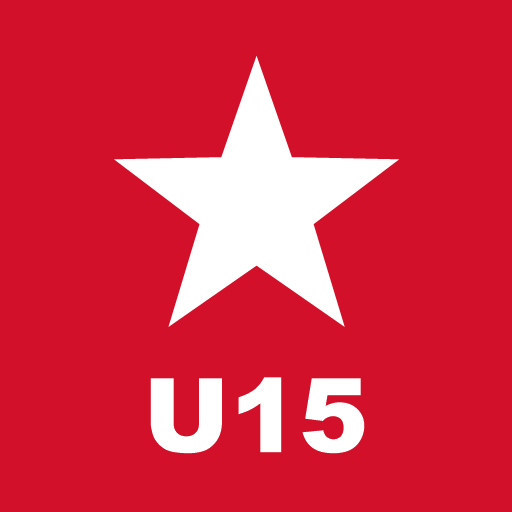
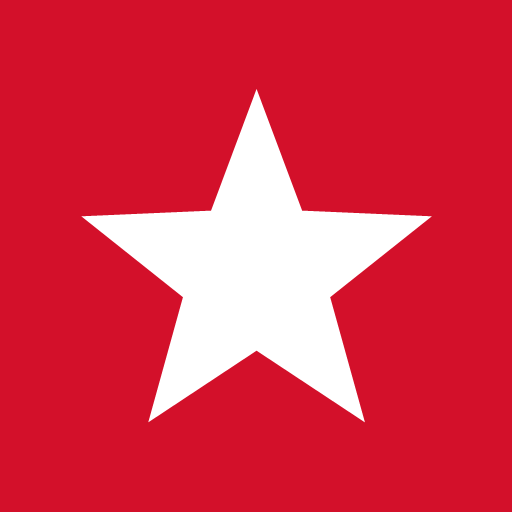
Dwa roczniki (U-15 i U-14) z przelacznikiem, ikona sama gwiazda

Changed region(s): [[0.1562, 0.125, 0.8438, 0.9062]]

diff --git a/template/dashboard.html b/template/dashboard.html
@@ -541,6 +541,19 @@ button.bx-r{cursor:pointer}button.bx-r:hover{background:rgba(255,255,255,.04)}
 .ssn-more{display:block;margin:10px auto 0;background:none;border:1px solid var(--line);color:var(--ink);border-radius:999px;padding:7px 14px;font:600 13px var(--f-body);cursor:pointer}
 .ssn-lg{display:flex;gap:10px;flex-wrap:wrap;font:10.5px var(--f-mono);color:var(--muted);margin-top:10px}
 .ssn-lg i{display:inline-block;width:12px;height:10px;border-radius:2px;vertical-align:-1px;margin-right:3px}
+/* ---------- roczniki U-15 / U-14 ---------- */
+.rksw{display:flex;background:rgba(255,255,255,.08);border:1px solid rgba(255,255,255,.16);border-radius:999px;padding:3px;flex:none}
+.rksw button{border:0;background:none;color:#b9c2de;font:600 13px var(--f-mono);padding:6px 12px;border-radius:999px;cursor:pointer;min-height:32px}
+.rksw button[aria-pressed="true"]{color:#fff;background:linear-gradient(140deg,#ff2a44,#b10c22)}
+.rk-u14 .rksw button[aria-pressed="true"]{background:linear-gradient(140deg,#4c7bff,#1d3f9e)}
+@media (max-width:560px){.top .rksw{margin-left:auto}}
+.lk-rk{width:max-content;margin:6px auto 4px}
+.xrk{display:block;width:100%;text-align:left;margin:12px 0 0;background:rgba(61,107,255,.14);border:1px solid rgba(61,107,255,.45);color:#dfe6ff;border-radius:12px;padding:9px 12px;font:13px var(--f-body);cursor:pointer}
+.rk-u14 .xrk{background:rgba(255,42,68,.14);border-color:rgba(255,42,68,.45);color:#ffe0e4}
+.xrk b{font-weight:700}
+.rk-u14 .tab[aria-selected="true"]{background:linear-gradient(140deg,#4c7bff,#1d3f9e);box-shadow:0 10px 24px -8px rgba(29,63,158,.8)}
+.rk-u14 .gm.next .ball{background:radial-gradient(circle at 35% 30%,#9db6ff,#1d3f9e);border-color:#4c7bff;box-shadow:0 0 0 5px rgba(61,107,255,.25)}
+.rk-u14 .fab{background:linear-gradient(140deg,#4c7bff,#1d3f9e);box-shadow:0 14px 30px -8px rgba(29,63,158,.9),inset 0 1px 0 rgba(255,255,255,.3)}
 </style>
 
 <header class="top"><div class="wrap">
@@ -550,6 +563,7 @@ button.bx-r{cursor:pointer}button.bx-r:hover{background:rgba(255,255,255,.04)}
     <div><b>Smoczy Box Score</b><span id="league-label"></span></div>
     <span class="sd hw mk sw season-chip" id="season-chip"></span>
   </div>
+  <div class="rksw" id="rksw" role="group" aria-label="Rocznik"></div>
   <svg class="sd hw bats" viewBox="0 0 60 26" aria-hidden="true"><path d="M8 12c-3-4-6-3-8-1 2 0 3 1 3 3 1-1 3-1 5 0 2-1 4-1 5 0 0-2 1-3 3-3-2-2-5-3-8 1z M40 8c-2-3-4-2-6-1 1 0 2 1 2 2 1-1 2-1 4 0 1-1 3-1 4 0 0-1 1-2 2-2-1-1-4-2-6 1z" fill="#B5D4F4"/></svg>
   <div class="sd lights" id="lights" aria-hidden="true"></div>
   <div class="fresh" id="fresh"></div>
@@ -590,6 +604,7 @@ button.bx-r{cursor:pointer}button.bx-r:hover{background:rgba(255,255,255,.04)}
 </div></div>
 <div class="locker" id="locker" role="dialog" aria-modal="true" aria-labelledby="lk-h" hidden><div class="lk-in">
   <p class="eyebrow" id="lk-eb">Witaj w Smoczym Box Score</p>
+  <div class="rksw lk-rk" id="lk-rk" role="group" aria-label="Rocznik"></div>
   <h2 id="lk-h">Wybierz drużynę</h2>
   <p class="sub">Przesuń logo palcem albo dotknij drużyny obok.</p>
   <div class="carousel" id="lk-car"></div>
@@ -605,7 +620,17 @@ button.bx-r{cursor:pointer}button.bx-r:hover{background:rgba(255,255,255,.04)}
 <script>
 (function(){
 'use strict';
-var D = window.SMOKI_DATA;
+/* roczniki: dane { u15: {...}, u14: {...} }; wybór z ?r=u14 albo zapamiętany */
+var ALL = window.SMOKI_DATA;
+if(ALL&&ALL.matches)ALL={u15:ALL};
+function ld0(k){try{return JSON.parse(localStorage.getItem(k)||'null');}catch(e){return null;}}
+var RKS=ALL?Object.keys(ALL):[];
+var RK=(location.search.match(/[?&]r=(u\d\d)/)||[])[1]||ld0('smoki-r')||'u15';
+if(RKS.indexOf(RK)<0)RK=RKS[0];
+var D = ALL&&ALL[RK];
+var KS=RK==='u15'?'':'-'+RK;
+function rkLabel(k){return (ALL[k]&&ALL[k].league&&ALL[k].league.label)||k.replace('u','U-');}
+function goRk(k,pid){if(k===RK&&!pid)return;try{localStorage.setItem('smoki-r',JSON.stringify(k));}catch(e){}location.href=location.pathname+'?r='+k+(pid?'&p='+encodeURIComponent(pid):'');}
 if(!D){document.getElementById('band').innerHTML='<div class="empty">Brak danych. Uruchom scripts\\update.ps1, aby pobrać dane z kozkosz.pl.</div>';return;}
 
 /* ---------- helpers ---------- */
@@ -677,9 +702,20 @@ function isChanged(m){return m.moved||!!changesBy[m.id];}
 
 /* ---------- state ---------- */
 var S={team:D.trackedTeamId,player:(D.trackedPlayerIds||[])[0]||null,tab:'player',sel:null,minGames:1,topMode:'avg'};
-try{var sv=JSON.parse(localStorage.getItem('smoki-state')||'{}');if(sv.team&&D.teams[sv.team])S.team=sv.team;if(sv.player)S.player=sv.player;if(sv.tab)S.tab=sv.tab;}catch(e){}
+try{var sv=JSON.parse(localStorage.getItem('smoki-state'+KS)||'{}');if(sv.team&&D.teams[sv.team])S.team=sv.team;if(sv.player)S.player=sv.player;if(sv.tab)S.tab=sv.tab;}catch(e){}
+var qp=(location.search.match(/[?&]p=(\d+)/)||[])[1];if(qp&&P[qp]){S.player=qp;S.team=P[qp].teamId;S.tab='player';}
+if(!S.player){var tp0=topScorers(S.team,1)[0];if(tp0)S.player=tp0.id;}
 var h=(location.hash||'').replace('#','');if(['player','team','league'].indexOf(h)>=0)S.tab=h;
-function save(){try{localStorage.setItem('smoki-state',JSON.stringify({team:S.team,player:S.player,tab:S.tab}));}catch(e){}}
+function save(){try{localStorage.setItem('smoki-state'+KS,JSON.stringify({team:S.team,player:S.player,tab:S.tab}));localStorage.setItem('smoki-r',JSON.stringify(RK));}catch(e){}}
+document.body.classList.add('rk-'+RK);
+function rkSwitch(el){if(!el)return;if(RKS.length<2){el.hidden=true;return;}
+  el.innerHTML=RKS.map(function(k){return '<button data-rk="'+esc(k)+'" aria-pressed="'+(k===RK)+'">'+esc(rkLabel(k))+'</button>';}).join('');
+  [].forEach.call(el.querySelectorAll('button'),function(b){b.addEventListener('click',function(){goRk(b.getAttribute('data-rk'));});});}
+rkSwitch($('rksw'));rkSwitch($('lk-rk'));
+/* zawodnik grający też w innym roczniku */
+function crossHtml(pid){var out='';RKS.forEach(function(k){if(k===RK)return;var g=0,pts=0;(ALL[k].matches||[]).forEach(function(m){if(!m.box)return;['home','away'].forEach(function(sd){(m.box[sd]||[]).forEach(function(r){if(r.pid===pid){g++;pts+=r.pts;}});});});
+  if(g)out+='<button class="xrk" data-xrk="'+esc(k)+'"><b>Gra też w '+esc(rkLabel(k))+'</b> · '+nGames(g)+' · '+pts+' pkt ('+fmt1(pts/g).replace('.',',')+' śr.) <span aria-hidden="true">→</span></button>';});return out;}
+$('v-player').addEventListener('click',function(e){var b=e.target.closest&&e.target.closest('[data-xrk]');if(b)goRk(b.getAttribute('data-xrk'),S.player);});
 
 /* ---------- header ---------- */
 /* ---------- motyw sezonowy (wg daty u oglądającego; podgląd: ?motyw=hw|mk|sw|no) ---------- */
@@ -1017,7 +1053,7 @@ var TTH={
  gen:{bg:'linear-gradient(160deg,#2f4384 0%,#16224a 55%,#070d22 100%)',acc:'#c9d3f5',
   svg:function(){return '<g fill="none" stroke="#fff" stroke-width="4" opacity="0.18"><circle cx="110" cy="140" r="118"/><path d="M110 22v236M-8 140h236M30 44c50 58 50 134 0 192M190 44c-50 58-50 134 0 192"/></g>';}}
 };
-var TEAM_TH={'8385':['wisla'],'8909':['korona'],'13182':['korona',1],'14629':['ikar'],'14638':['kadet'],'14642':['gorlice'],'14653':['tarnow'],'14703':['regis'],'14702':['regis',1],'14710':['oknoplast'],'14991':['oknoplast',1],'14797':['ujk'],'14985':['skawa'],'172':['limanowa'],'7435':['wikar']};
+var TEAM_TH={'8385':['wisla'],'8909':['korona'],'13182':['korona',1],'14629':['ikar'],'14638':['kadet'],'14642':['gorlice'],'14653':['tarnow'],'14703':['regis'],'14702':['regis',1],'14710':['oknoplast'],'14991':['oknoplast',1],'14797':['ujk'],'14985':['skawa'],'172':['limanowa'],'7435':['wikar'],'11557':['korona',1],'14649':['tarnow'],'14709':['oknoplast'],'14795':['ujk']};
 var thN=0;function teamTheme(tid){var x=TEAM_TH[tid]||['gen'],t=TTH[x[0]];return {bg:t.bg,acc:t.acc,ii:!!x[1],svg:'<svg class="motif" viewBox="0 0 220 320" preserveAspectRatio="xMidYMid slice" aria-hidden="true">'+t.svg(++thN)+'</svg>'};}
 function cardHtml(p,nr,pos){
   var mx=p.log.length?Math.max.apply(null,p.log.map(function(l){return l.pts;})):0;
@@ -1068,7 +1104,7 @@ function renderPlayer(){
   if(hgt)s+='<span>'+esc(hgt)+'</span>';
   if(nr)s+='<span>#'+esc(nr)+'</span>';
   if(teamRank>0)s+='<span>'+teamRank+'. strzelec drużyny</span>';
-  s+='</div><p class="hint">Przechyl telefon albo najedź myszką na kartę. Dotknięcie obraca kartę.</p></div></div>';
+  s+='</div>'+crossHtml(p.id)+'<p class="hint">Przechyl telefon albo najedź myszką na kartę. Dotknięcie obraca kartę.</p></div></div>';
   if(!p.games){el.innerHTML=s+'<div class="empty">Ten zawodnik nie ma jeszcze meczu z protokołem w tym sezonie.</div>';return;}
   var hist=prof&&prof.history||[],prev=hist.filter(function(h){return h.season!==D.league.season;})[0];
   var last=p.log[p.log.length-1],l3=p.log.slice(-3),f3=l3.reduce(function(a,l){return a+l.pts;},0)/l3.length;
@@ -1273,16 +1309,16 @@ function stv(k,v){try{localStorage.setItem(k,JSON.stringify(v));}catch(e){}}
 function norm(s){return String(s||'').toLowerCase().replace(/ł/g,'l').normalize('NFD').replace(/[̀-ͯ]/g,'');}
 function lastName(n){var p=String(n||'').split(' ');return p[p.length-1];}
 function avgTxt(p){return p.games?fmt1(p.avg).replace('.',','):'–';}
-var FAV=ld('smoki-fav',[]),REC=ld('smoki-rec',[]),QF='all';
+var FAV=ld('smoki-fav'+KS,[]),REC=ld('smoki-rec'+KS,[]),QF='all';
 var TEAM_IDS=[];D.groups.forEach(function(g){g.teamIds.forEach(function(t){if(TEAM_IDS.indexOf(t)<0&&D.teams[t])TEAM_IDS.push(t);});});
 TEAM_IDS.sort(function(a,b){return sn(a).localeCompare(sn(b),'pl');});
 var ALLP=null;function allPlayers(){if(!ALLP){ALLP=[];TEAM_IDS.forEach(function(t){teamPlayers(t).forEach(function(p){ALLP.push(p);});});}return ALLP;}
 function findP(id){var a=allPlayers();for(var i=0;i<a.length;i++)if(a[i].id===id)return a[i];return null;}
 function hlq(text,q){text=String(text||'');if(!q)return esc(text);var i=norm(text).indexOf(q);if(i<0)return esc(text);return esc(text.slice(0,i))+'<mark>'+esc(text.slice(i,i+q.length))+'</mark>'+esc(text.slice(i+q.length));}
 function isFav(k){return FAV.indexOf(k)>=0;}
-function togFav(k){var i=FAV.indexOf(k);if(i>=0)FAV.splice(i,1);else FAV.unshift(k);stv('smoki-fav',FAV);}
-function addFav(k){if(!isFav(k)){FAV.unshift(k);stv('smoki-fav',FAV);}}
-function pushRec(k){REC=[k].concat(REC.filter(function(x){return x!==k;})).slice(0,5);stv('smoki-rec',REC);}
+function togFav(k){var i=FAV.indexOf(k);if(i>=0)FAV.splice(i,1);else FAV.unshift(k);stv('smoki-fav'+KS,FAV);}
+function addFav(k){if(!isFav(k)){FAV.unshift(k);stv('smoki-fav'+KS,FAV);}}
+function pushRec(k){REC=[k].concat(REC.filter(function(x){return x!==k;})).slice(0,5);stv('smoki-rec'+KS,REC);}
 function favBtn(k,lab){return '<button class="fav'+(isFav(k)?' on':'')+'" data-fav="'+k+'" aria-label="'+lab+'" aria-pressed="'+isFav(k)+'">★</button>';}
 function pRow(p,q){var k='p:'+p.id;return '<div class="res'+(p.id===S.player?' hl':'')+'"><button class="rmain" data-k="'+k+'"><span class="num6'+(p.teamId===D.trackedTeamId?'':' g')+'">'+esc(p.nr||'?')+'</span><span class="t"><b>'+hlq(p.name,q)+'</b><span>'+esc(sn(p.teamId))+' · '+(p.games?nGames(p.games):'bez meczów')+'</span></span><span class="val">'+avgTxt(p)+'<small>PKT/M</small></span></button>'+favBtn(k,'Ulubiony zawodnik')+'</div>';}
 function tRow(id,q){var k='t:'+id,t=T(id),g=groupOf[id];return '<div class="res'+(id===S.team?' hl':'')+'"><button class="rmain" data-k="'+k+'">'+logo(id,'md')+'<span class="t"><b>'+hlq(t.short,q)+'</b><span>'+hlq(t.name,q)+(g?' · gr. '+esc(g.letter):'')+'</span></span></button>'+favBtn(k,'Ulubiona drużyna')+'</div>';}
@@ -1368,7 +1404,7 @@ function openLocker(first){
   lkSetTeam(Math.max(0,TEAM_IDS.indexOf(S.team)));
   setTimeout(function(){try{$('lk-pick').focus({preventScroll:true});}catch(e){}},50);
 }
-function closeLocker(){$('locker').hidden=true;lockScroll(false);stv('smoki-onb',1);}
+function closeLocker(){$('locker').hidden=true;lockScroll(false);stv('smoki-onb'+KS,1);}
 function lkPick(){var p=LK.list[LK.p];if(!p)return;addFav('p:'+p.id);pushRec('p:'+p.id);closeLocker();choose(TEAM_IDS[LK.t],p.id,'player');}
 $('lk-pick').addEventListener('click',lkPick);
 $('lk-team').addEventListener('click',function(){var t=TEAM_IDS[LK.t];addFav('t:'+t);pushRec('t:'+t);closeLocker();choose(t,null,'team');});
@@ -1395,6 +1431,6 @@ function fiveHtml(tid){
 
 function renderAll(){renderBand();renderPlayer();renderTeam();renderLeague();}
 fillTeams();fillPlayers();renderAll();setTab(S.tab);
-if(!ld('smoki-onb',0)||/[?&]szatnia/.test(location.search))openLocker(true);
+if((!ld('smoki-onb'+KS,0)&&!qp)||/[?&]szatnia/.test(location.search))openLocker(true);
 })();
 </script>

diff --git a/static/sw.js b/static/sw.js
@@ -1,5 +1,5 @@
 // Prosty service worker: zawsze najpierw siec (swieze dane), a bez internetu ostatnio zapisana wersja.
-const CACHE = 'smoki-v6';
+const CACHE = 'smoki-v7';
 const SHELL = ['./', './icon-192.png', './icon-512.png', './manifest.webmanifest'];
 
 self.addEventListener('install', e => {
